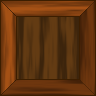
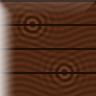
chore: regenerate assets and readme

diff --git a/frames/mwm_like_xlarge.go b/frames/mwm_like_xlarge.go
@@ -12,7 +12,7 @@ var MwmLikeXlargePng []byte
 
 var MwmLikeXlarge = &Definition{
 	Name: "mwm_like_xlarge",
-	Middle: image.Rect(36, 48, 108, 108),
+	Middle: image.Rect(18, 18, 126, 126),
 }
 
 func init() {

diff --git a/frames/mwm_like_large.go b/frames/mwm_like_large.go
@@ -12,7 +12,7 @@ var MwmLikeLargePng []byte
 
 var MwmLikeLarge = &Definition{
 	Name: "mwm_like_large",
-	Middle: image.Rect(24, 30, 72, 72),
+	Middle: image.Rect(12, 12, 84, 84),
 }
 
 func init() {

diff --git a/frames/mwm_like.go b/frames/mwm_like.go
@@ -12,7 +12,7 @@ var MwmLikePng []byte
 
 var MwmLike = &Definition{
 	Name: "mwm_like",
-	Middle: image.Rect(12, 18, 36, 36),
+	Middle: image.Rect(6, 6, 42, 42),
 }
 
 func init() {

diff --git a/readme.md b/readme.md
@@ -78,10 +78,10 @@ From:
 
 In sample 4 we replace the contents of the window with our own rather than use section 5 of the image.
 
-There are currently 3 variants of this which control how the replacement image for Section 5 is positioned/aligned:
-* **Section5Zeroed** (Default): The (0,0) coordinate of the replacement image is aligned with the top-left corner of Section 5 (the middle content area) of the frame. This is ideal when the image is meant to be the content of the frame.
-* **Zerod**: The (0,0) coordinate of the replacement image is aligned with the top-left corner of the *entire frame* (Dest.Min). This is useful if you want the image to start from the frame's corner, covering borders if the image is large enough, or aligning relative to the frame itself.
-* **PassThrough**: The coordinates are passed through from the destination image directly. This means the replacement image is aligned with the origin (0,0) of the *destination image* (the canvas you are drawing onto), regardless of where the frame is located. This is useful for backgrounds that need to appear continuous across multiple frames or the entire window.
+There are currently 3 variants of this:
+* Section5Zeroed - Match section 5 starting position with co-ordinates 0, 0
+* Zerod - Match the whole frame's starting position with the co-ordinates 0, 0
+* PassThrough - Pass in the parent windows position
 
 ```go
 fr := frame.NewFrame(frdst.Bounds(), base.(SubImagable).SubImage(s2), image.Rect(14, 48, 88, 66), &frame.Section5{Image: s5i}, frame.Section5Zeroed)
